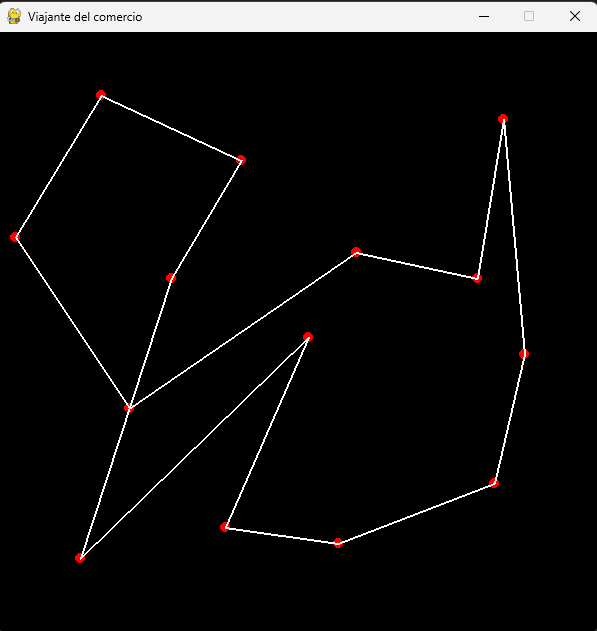
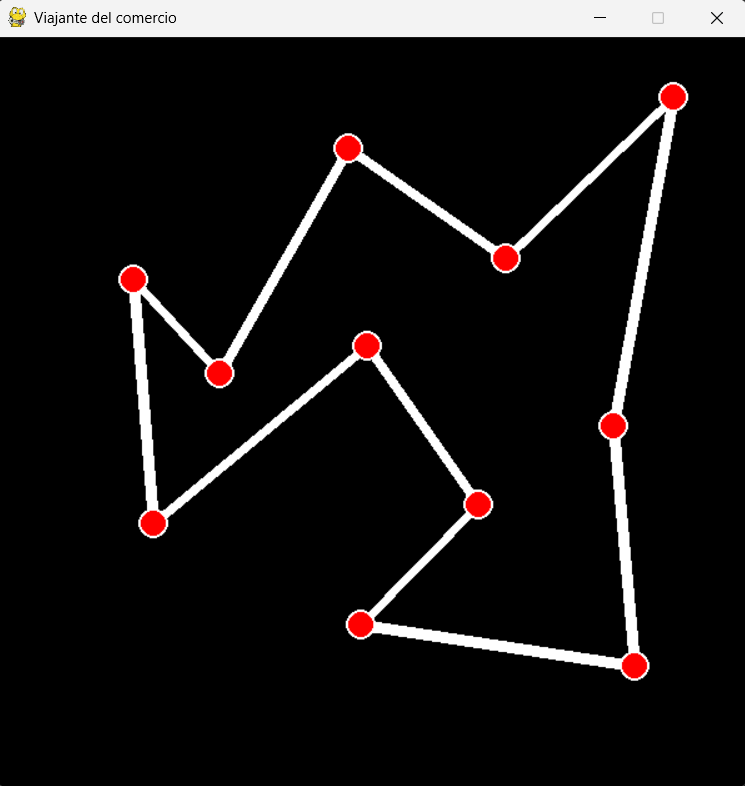
imagenes actualizadas

diff --git a/main.py b/main.py
@@ -28,7 +28,8 @@ def main():
                 pos = pygame.mouse.get_pos()
                 row, col = get_row_col_from_mouse(pos)
                 ciudades.append([row,col])
-                pygame.draw.circle(WIN, (255, 0, 0), (row, col), 5)
+                pygame.draw.circle(WIN, (255, 255, 255), (row, col), 12)
+                pygame.draw.circle(WIN, (255, 0, 0), (row, col), 10)
                 pygame.display.update()
                 print(ciudades)
             if event.type == pygame.KEYDOWN:
@@ -40,15 +41,16 @@ def main():
                     secuencia = response.json()
                     coordenadas_inicio = ciudades[secuencia[0]]
                     coordenadas_final = ciudades[secuencia[len(secuencia)-1]]
-                    pygame.draw.line(WIN, (255, 255, 255), (coordenadas_inicio[0], coordenadas_inicio[1]), (coordenadas_final[0], coordenadas_final[1]), 2)
+                    pygame.draw.line(WIN, (255, 255, 255), (coordenadas_inicio[0], coordenadas_inicio[1]), (coordenadas_final[0], coordenadas_final[1]), 9)
                     for i, ciudad in enumerate(secuencia):
                         if i < len(secuencia)-1:
                             coordenadas_uno = ciudades[secuencia[i]]
                             coordenadas_dos = ciudades[secuencia[i+1]]
                             print(str(coordenadas_uno)+' '+str(coordenadas_dos))
-                            pygame.draw.line(WIN, (255, 255, 255), (coordenadas_uno[0], coordenadas_uno[1]), (coordenadas_dos[0], coordenadas_dos[1]), 2)
-                    #for i, ciudad in enumerate(ciudades):
-                        #pygame.draw.circle(WIN, (255, 0, 0), (ciudad[0], ciudad[1]), 5)
+                            pygame.draw.line(WIN, (255, 255, 255), (coordenadas_uno[0], coordenadas_uno[1]), (coordenadas_dos[0], coordenadas_dos[1]), 9)
+                    for i, ciudad in enumerate(ciudades):
+                        pygame.draw.circle(WIN, (255, 255, 255), (ciudad[0], ciudad[1]), 12)
+                        pygame.draw.circle(WIN, (255, 0, 0), (ciudad[0], ciudad[1]), 10)
                     pygame.display.update()
 
     pygame.quit()
